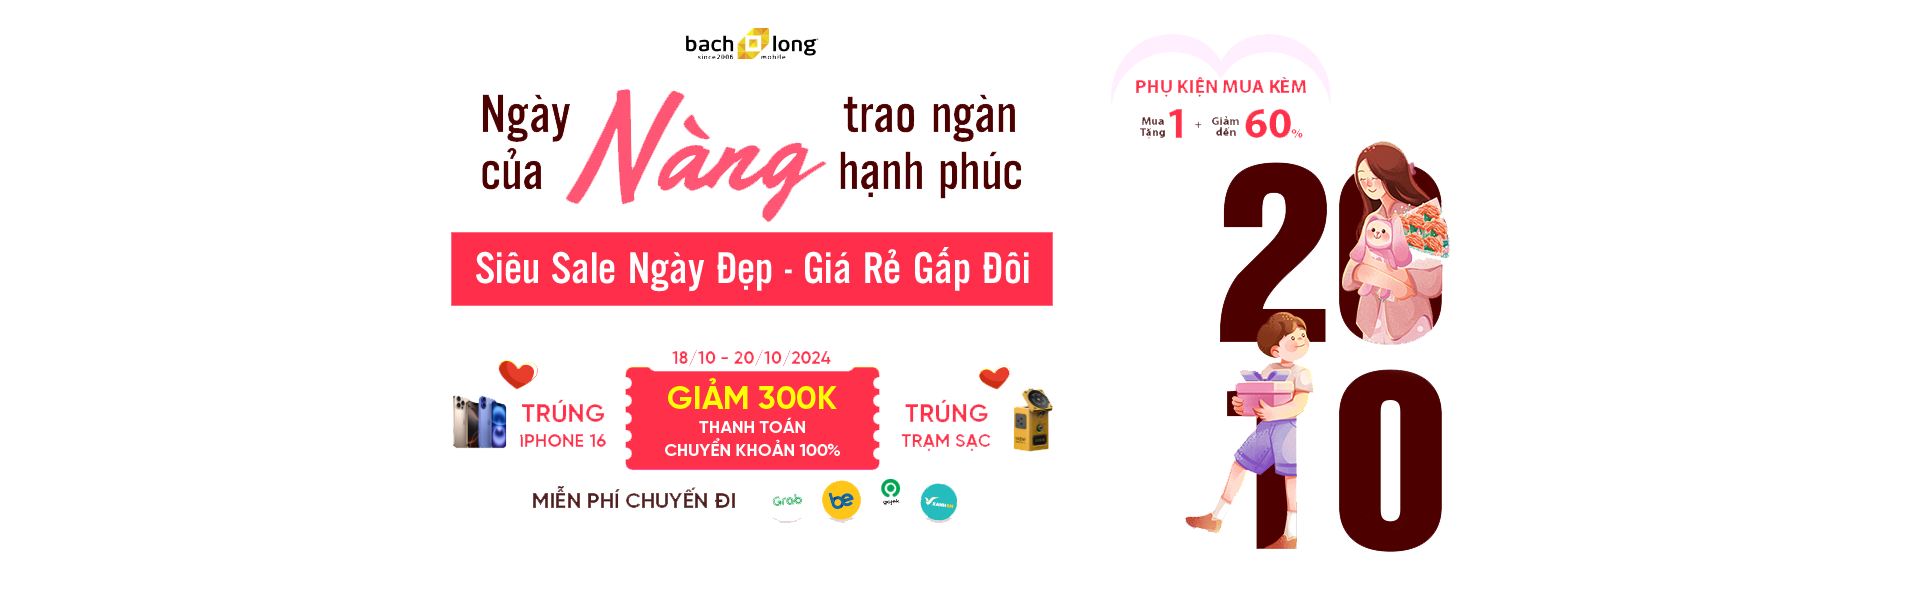
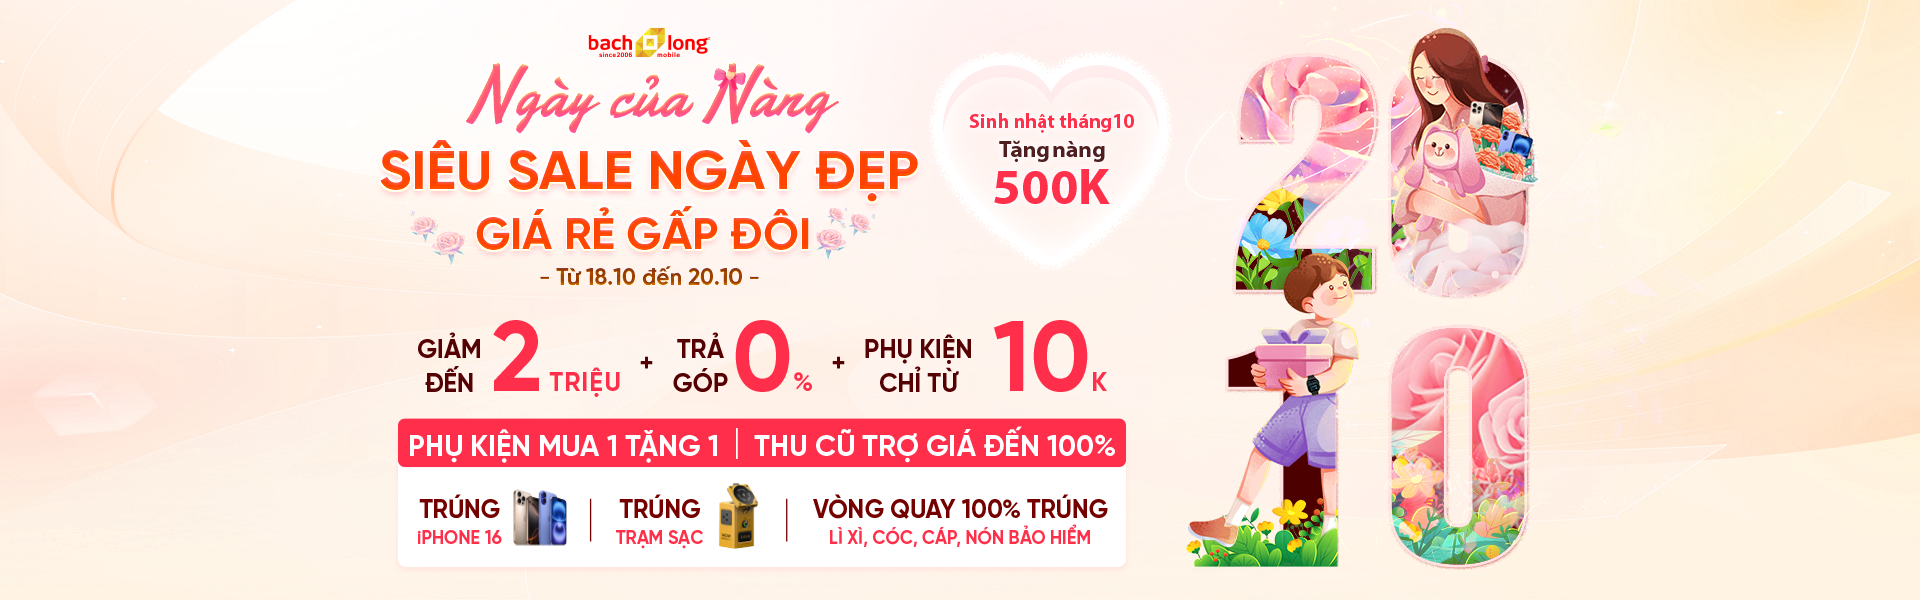
upload code

diff --git a/src/components/WomenDay/banner/index.tsx b/src/components/WomenDay/banner/index.tsx
@@ -2,7 +2,7 @@
 import React, { useState, useEffect } from 'react';
 import './banner.scss';
 import Image from 'next/image';
-import banner from '../../../../public/women-day/banner-women.jpg';
+import banner from '../../../../public/women-day/banner-women.png';
 import countdown from '../../../../public/women-day/decor-countdown.png';
 
 interface TimeLeft {
@@ -54,7 +54,7 @@ const Banner: React.FC<TimeLineProps> = ({ onScrollToRules }) => {
 
 	return (
 		<div className='banner'>
-			<Image src={banner} alt='banner' />
+			<Image src={banner} alt='banner' width={1920} height={1200} className='banner-img' />
 			<div className='container'>
 				<div className='countdown-wrap'>
 					<div className='countdown'>

diff --git a/src/components/WomenDay/banner/banner.scss b/src/components/WomenDay/banner/banner.scss
@@ -3,6 +3,12 @@
 	text-align: center;
 	z-index: 1;
 
+	&-img {
+		width: 100%;
+		height: 100%;
+		object-fit: cover;
+	}
+
 	.countdown-wrap {
 		display: flex;
 		flex-direction: column;

diff --git a/src/components/WomenDay/99percent/product.scss b/src/components/WomenDay/99percent/product.scss
@@ -134,6 +134,8 @@
 					}
 
 					img {
+						width: 100%;
+						height: auto;
 						object-fit: cover;
 					}
 				}

diff --git a/src/components/WomenDay/android/product.scss b/src/components/WomenDay/android/product.scss
@@ -134,6 +134,8 @@
 					}
 
 					img {
+						width: 100%;
+						height: auto;
 						object-fit: cover;
 					}
 				}

diff --git a/src/components/WomenDay/laptop/apple.scss b/src/components/WomenDay/laptop/apple.scss
@@ -134,6 +134,8 @@
 					}
 
 					img {
+						width: 100%;
+						height: auto;
 						object-fit: cover;
 					}
 				}
